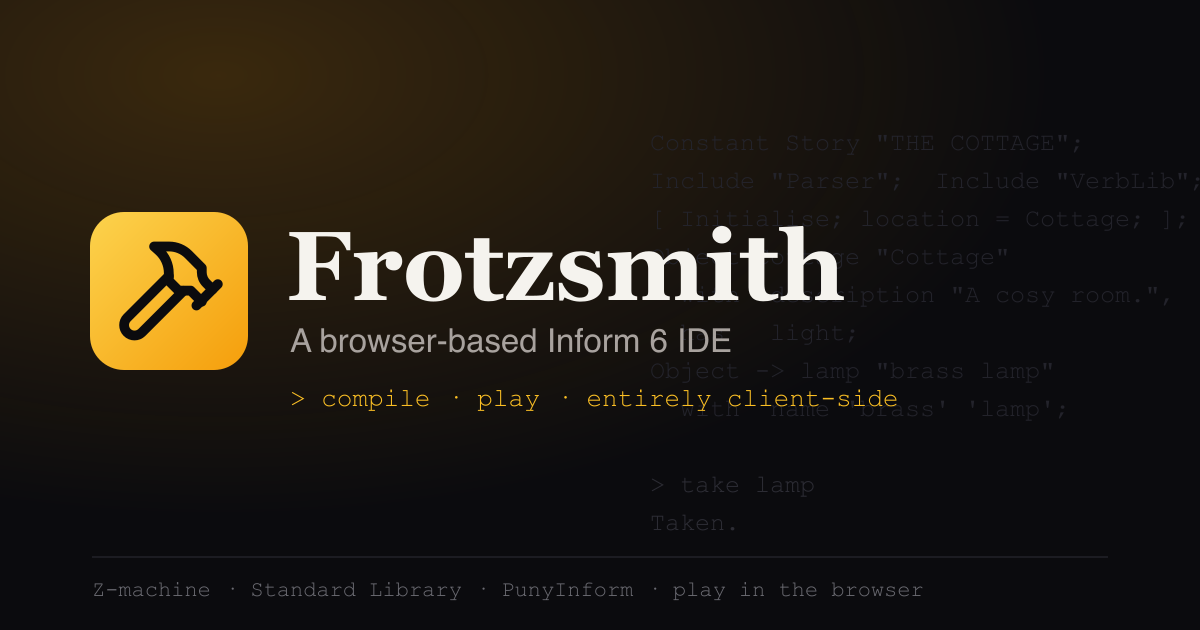
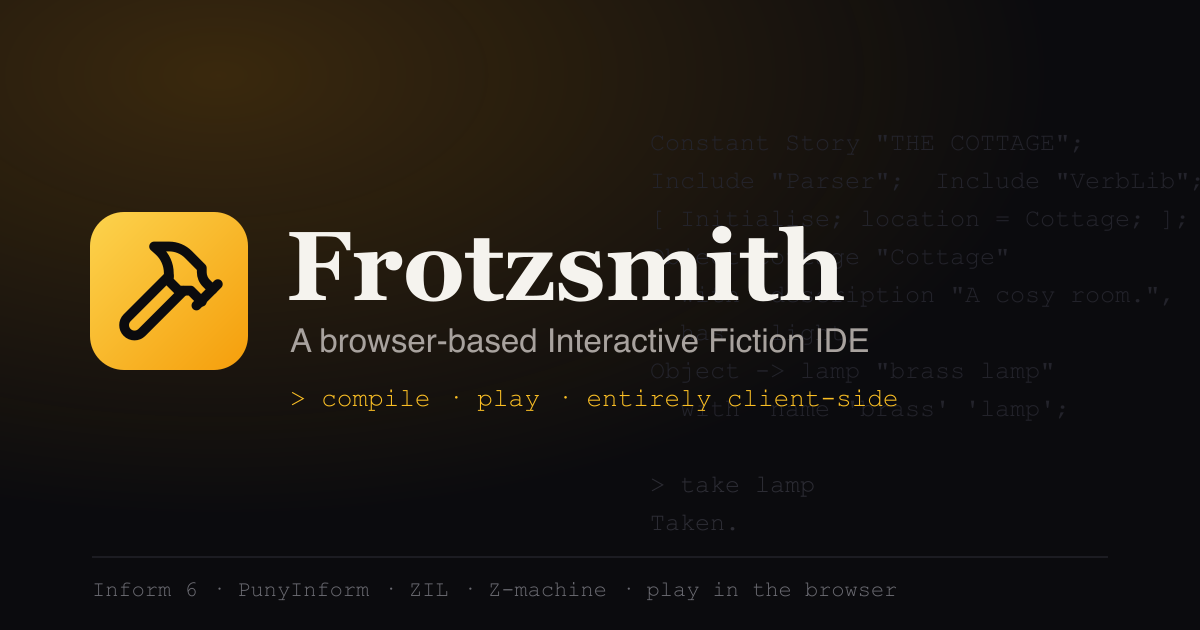
feat(brand): reposition as an Interactive Fiction IDE (Inform 6 beta · ZIL alpha)
- og-image.svg: tagline → "A browser-based Interactive Fiction IDE"; footer → Inform 6 · PunyInform · ZIL · Z-machine
- og-image.png: re-rendered at 1200×630 via sharp-cli
- spa-loading-template.html: INFORM 6 IDE → INTERACTIVE FICTION IDE
- IdeToolbar.vue: header subtitle Inform 6 IDE → Interactive Fiction IDE
- nuxt.config.ts: page title, og:title/description/alt, twitter:title/description updated
- README.md: og-image alt, one-liner blockquote, status line, "Inform 6 only" → "Inform 6 today (ZIL in progress)"
- ROADMAP.md: opening identity line broadened to Interactive Fiction IDE

diff --git a/nuxt.config.ts b/nuxt.config.ts
@@ -46,7 +46,7 @@ export default defineNuxtConfig({
 
   app: {
     head: {
-      title: 'Frotzsmith — Inform 6 IDE',
+      title: 'Frotzsmith — Interactive Fiction IDE',
       htmlAttrs: { lang: 'en' },
       meta: [
         { name: 'viewport', content: 'width=device-width, initial-scale=1' },
@@ -56,22 +56,22 @@ export default defineNuxtConfig({
         // Open Graph
         { property: 'og:type', content: 'website' },
         { property: 'og:site_name', content: 'Frotzsmith' },
-        { property: 'og:title', content: 'Frotzsmith — a browser-based Inform 6 IDE' },
+        { property: 'og:title', content: 'Frotzsmith — a browser-based Interactive Fiction IDE' },
         {
           property: 'og:description',
-          content: 'Write, compile, and play Inform 6 interactive fiction entirely in your browser.',
+          content: 'Write, compile, and play interactive fiction entirely in your browser — Inform 6, with ZIL coming.',
         },
         { property: 'og:url', content: `${SITE_URL}/` },
         { property: 'og:image', content: `${SITE_URL}/og-image.png` },
         { property: 'og:image:width', content: '1200' },
         { property: 'og:image:height', content: '630' },
-        { property: 'og:image:alt', content: 'Frotzsmith — a browser-based Inform 6 IDE' },
+        { property: 'og:image:alt', content: 'Frotzsmith — a browser-based Interactive Fiction IDE' },
         // Twitter
         { name: 'twitter:card', content: 'summary_large_image' },
-        { name: 'twitter:title', content: 'Frotzsmith — a browser-based Inform 6 IDE' },
+        { name: 'twitter:title', content: 'Frotzsmith — a browser-based Interactive Fiction IDE' },
         {
           name: 'twitter:description',
-          content: 'Write, compile, and play Inform 6 interactive fiction entirely in your browser.',
+          content: 'Write, compile, and play interactive fiction entirely in your browser — Inform 6, with ZIL coming.',
         },
         { name: 'twitter:image', content: `${SITE_URL}/og-image.png` },
       ],

diff --git a/app/components/ide/IdeToolbar.vue b/app/components/ide/IdeToolbar.vue
@@ -123,7 +123,7 @@ function toggleTheme() {
       </span>
       <div class="leading-none">
         <p class="text-lg font-extrabold tracking-tight">Frotzsmith</p>
-        <p class="text-muted text-[10px] font-semibold uppercase tracking-widest">Inform 6 IDE</p>
+        <p class="text-muted text-[10px] font-semibold uppercase tracking-widest">Interactive Fiction IDE</p>
       </div>
     </div>
 

diff --git a/app/spa-loading-template.html b/app/spa-loading-template.html
@@ -13,7 +13,7 @@
     </svg>
     <span class="frotz-spa__word">Frotzsmith</span>
   </div>
-  <span class="frotz-spa__sub">INFORM 6 IDE</span>
+  <span class="frotz-spa__sub">INTERACTIVE FICTION IDE</span>
   <div class="frotz-spa__spinner" aria-hidden="true"></div>
 </div>
 <style>

diff --git a/README.md b/README.md
@@ -1,8 +1,8 @@
 # Frotzsmith
 
-![Frotzsmith — a browser-based Inform 6 IDE](./public/og-image.png)
+![Frotzsmith — a browser-based Interactive Fiction IDE](./public/og-image.png)
 
-> A personal, browser-based IDE for **Inform 6** — write source, compile to a Z-machine story file entirely client-side, play it inline, and run long test scripts against it. No backend, no accounts, offline-capable.
+> A personal, browser-based **Interactive Fiction** IDE — write source, compile to a Z-machine story file entirely client-side, play it inline, and run long test scripts. **Inform 6 (+ PunyInform) today; ZIL in progress.** No backend, no accounts, offline-capable.
 
 [![License: MIT](https://img.shields.io/badge/License-MIT-blue.svg)](./LICENSE)
 [![Nuxt](https://img.shields.io/badge/Nuxt-4-00DC82.svg)](https://nuxt.com)
@@ -11,7 +11,7 @@
 [![WCAG 2.1 AA](https://img.shields.io/badge/a11y-WCAG%202.1%20AA-success.svg)](https://www.w3.org/WAI/WCAG21/quickref/)
 [![Status](https://img.shields.io/badge/status-alpha-orange.svg)](./docs/00-master-design.md)
 
-> **Status — working alpha.** Write Inform 6, compile to a Z-machine story file entirely in the browser (Standard Library or PunyInform, auto-detected), **play it inline** via Parchment + the pure-JS ZVM, **capture your playthrough and replay command scripts headlessly**, load 21 worked samples, and pull in your own extensions. See [ROADMAP.md](./ROADMAP.md) for what's next and [CHANGELOG.md](./CHANGELOG.md) for what's shipped; design docs live in [`docs/`](./docs).
+> **Status — Inform 6 beta · ZIL alpha (in progress).** Write Inform 6, compile to a Z-machine story file entirely in the browser (Standard Library or PunyInform, auto-detected), **play it inline** via Parchment + the pure-JS ZVM, **capture your playthrough and replay command scripts headlessly**, load 21 worked samples, and pull in your own extensions. See [ROADMAP.md](./ROADMAP.md) for what's next and [CHANGELOG.md](./CHANGELOG.md) for what's shipped; design docs live in [`docs/`](./docs).
 
 ## What it is
 
@@ -23,7 +23,7 @@ A power-user testing layer runs arbitrarily long command scripts (`n. examine ro
 
 Inform 6 is the author's favourite IF language, but browser tooling is fragmented: interpreters play *finished* story files, and the Inform 7 IDE is a desktop app tied to I7's natural-language layer. There is no clean, modern, browser-native place to **write I6, compile it, and immediately play it** with library auto-import and saved test scripts. Frotzsmith fills that gap — primarily for the author's own use, secondarily as a shareable open-source tool.
 
-[Borogove](https://borogove.app) is the nearest neighbour and is excellent; Frotzsmith is narrower by design — Inform 6 only, profile-driven, fully static/offline, account-free, with a closer Inform 7-IDE feel and a script→Skein testing spine.
+[Borogove](https://borogove.app) is the nearest neighbour and is excellent; Frotzsmith is narrower by design — Inform 6 today (ZIL in progress), profile-driven, fully static/offline, account-free, with a closer Inform 7-IDE feel and a script→Skein testing spine.
 
 ## The loop
 

diff --git a/ROADMAP.md b/ROADMAP.md
@@ -1,6 +1,6 @@
 # Frotzsmith Roadmap
 
-Frotzsmith is a browser-based **Inform 6** IDE: write, compile to a Z-machine
+Frotzsmith is a browser-based **Interactive Fiction** IDE (Inform 6 today; ZIL in progress): write, compile to a Z-machine
 story file entirely client-side, and play it inline. See
 [CHANGELOG.md](./CHANGELOG.md) for what's shipped, and
 [`docs/13-v2-roadmap.md`](./docs/13-v2-roadmap.md) for detailed feasibility notes.